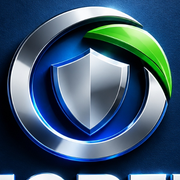
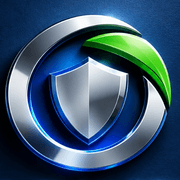
PWA : installation proposée de façon fiable sur mobile
- Invite native Android captée dès le <head>, avant React : beforeinstallprompt
  arrivait souvent avant l'hydratation et le bouton « Installer » retombait sur
  le guide manuel.
- Manifeste : id, lang, icônes « any » et « maskable » distinctes (l'icône 192
  maskable seule était rognée), manifestes périmés de public/ supprimés.
- Icônes régénérées depuis le logo officiel (emblème sans texte tronqué,
  maskable dans la zone de sécurité), 10× plus légères :
  scripts/generate-pwa-icons.js.
- Service worker v3 : pré-cache léger (plus de logo de 1,6 Mo) et vraie page
  hors ligne avec numéros d'urgence au lieu de la page d'accueil commerciale.

diff --git a/scripts/generate-pwa-icons.js b/scripts/generate-pwa-icons.js
@@ -1,0 +1,64 @@
+/**
+ * Génère les icônes de l'application installable (PWA) à partir du logo officiel.
+ *
+ * - icon-192 / icon-512 (purpose "any") : emblème recadré plein cadre.
+ * - icon-maskable-192 / 512 : emblème réduit dans la zone de sécurité (80 % central) sur le fond
+ *   bleu du logo, pour qu'Android puisse le découper en cercle ou en goutte sans le rogner.
+ * - apple-touch-icon (180) : iOS arrondit lui-même les angles.
+ *
+ * Usage : node scripts/generate-pwa-icons.js
+ */
+const path = require('path');
+const sharp = require('sharp');
+
+const publicDir = path.resolve(__dirname, '..', 'public');
+const source = path.join(publicDir, 'horeb-secure-logo.png'); // 1024x1024
+
+// Emblème (anneau + bouclier + feuille) dans le logo 1024 px
+// Le texte « HOREB » commence vers y = 588 : le cadre s'arrête au-dessus.
+const EMBLEM = { left: 268, top: 82, width: 496, height: 496 };
+
+/** Masque circulaire à bord progressif : fond l'emblème dans le fond sans arête visible. */
+function softCircleMask(size) {
+  const svg = `<svg xmlns="http://www.w3.org/2000/svg" width="${size}" height="${size}">
+    <defs><radialGradient id="g" cx="50%" cy="50%" r="50%">
+      <stop offset="78%" stop-color="#fff" stop-opacity="1"/>
+      <stop offset="100%" stop-color="#fff" stop-opacity="0"/>
+    </radialGradient></defs>
+    <rect width="100%" height="100%" fill="url(#g)"/></svg>`;
+  return Buffer.from(svg);
+}
+
+async function main() {
+  const emblem = await sharp(source).extract(EMBLEM).toBuffer();
+  const png = (img) => img.png({ compressionLevel: 9, palette: true, quality: 92, effort: 10 });
+
+  for (const size of [192, 512]) {
+    await png(sharp(emblem).resize(size, size)).toFile(path.join(publicDir, `icon-${size}.png`));
+
+    // Maskable : fond = emblème agrandi et flouté (même texture bleue) ; l'emblème net occupe 78 %
+    // du côté, détouré en cercle progressif, donc entièrement dans la zone de sécurité.
+    const inner = Math.round(size * 0.78);
+    const pad = Math.round((size - inner) / 2);
+    const background = await sharp(emblem).resize(size, size).blur(size / 12).modulate({ brightness: 0.7 }).toBuffer();
+    const sharpEmblem = await sharp(emblem)
+      .resize(inner, inner)
+      .ensureAlpha()
+      .composite([{ input: softCircleMask(inner), blend: 'dest-in' }])
+      .png()
+      .toBuffer();
+    await png(sharp(background).composite([{ input: sharpEmblem, left: pad, top: pad }])).toFile(
+      path.join(publicDir, `icon-maskable-${size}.png`)
+    );
+  }
+
+  await png(sharp(emblem).resize(180, 180)).toFile(path.join(publicDir, 'apple-touch-icon.png'));
+  await png(sharp(emblem).resize(64, 64)).toFile(path.join(publicDir, 'favicon.png'));
+
+  console.log('Icônes PWA générées dans public/');
+}
+
+main().catch((err) => {
+  console.error(err);
+  process.exit(1);
+});

diff --git a/src/app/manifest.ts b/src/app/manifest.ts
@@ -1,35 +1,32 @@
 import type { MetadataRoute } from 'next';
 
+/**
+ * Manifeste de l'application installable (PWA), servi sur /manifest.webmanifest.
+ * Icônes : générées par scripts/generate-pwa-icons.js. Une icône « any » pleine et une « maskable »
+ * distincte par taille : une icône à la fois any et maskable est rognée sur Android.
+ */
 export default function manifest(): MetadataRoute.Manifest {
   return {
+    id: '/',
     name: 'HOREB SECURE — Sécurité Opérationnelle & Intervention',
     short_name: 'HOREB SECURE',
     description: 'HOREB SECURE — Protéger Aujourd’hui, Demain | Plateforme de Sécurité de Proximité',
+    lang: 'fr',
+    dir: 'ltr',
     start_url: '/login',
     scope: '/',
     display: 'standalone',
+    display_override: ['standalone', 'minimal-ui'],
     orientation: 'portrait',
     background_color: '#020617',
     theme_color: '#020617',
     categories: ['security', 'business', 'utilities'],
+    prefer_related_applications: false,
     icons: [
-      {
-        src: '/favicon.png',
-        sizes: '32x32',
-        type: 'image/png',
-      },
-      {
-        src: '/icon-192.png',
-        sizes: '192x192',
-        type: 'image/png',
-        purpose: 'maskable',
-      },
-      {
-        src: '/icon-512.png',
-        sizes: '512x512',
-        type: 'image/png',
-        purpose: 'any',
-      },
+      { src: '/icon-192.png', sizes: '192x192', type: 'image/png', purpose: 'any' },
+      { src: '/icon-512.png', sizes: '512x512', type: 'image/png', purpose: 'any' },
+      { src: '/icon-maskable-192.png', sizes: '192x192', type: 'image/png', purpose: 'maskable' },
+      { src: '/icon-maskable-512.png', sizes: '512x512', type: 'image/png', purpose: 'maskable' },
     ],
   };
 }

diff --git a/public/offline.html b/public/offline.html
@@ -1,0 +1,29 @@
+<!doctype html>
+<html lang="fr">
+<head>
+  <meta charset="utf-8">
+  <meta name="viewport" content="width=device-width, initial-scale=1">
+  <meta name="theme-color" content="#020617">
+  <title>HOREB SECURE — Hors ligne</title>
+  <style>
+    html, body { margin: 0; height: 100%; background: #020617; color: #e2e8f0; font-family: system-ui, -apple-system, "Segoe UI", Roboto, sans-serif; }
+    main { min-height: 100%; display: flex; flex-direction: column; align-items: center; justify-content: center; text-align: center; padding: 24px; box-sizing: border-box; gap: 16px; }
+    img { width: 96px; height: 96px; border-radius: 24px; }
+    h1 { font-size: 20px; margin: 0; }
+    p { font-size: 14px; color: #94a3b8; max-width: 320px; margin: 0; line-height: 1.5; }
+    .urgence { font-size: 13px; color: #fca5a5; }
+    a { color: #fca5a5; font-weight: 700; }
+    button { margin-top: 8px; padding: 12px 20px; border: 0; border-radius: 12px; background: #0891b2; color: #fff; font-weight: 700; font-size: 14px; }
+  </style>
+</head>
+<body>
+  <main>
+    <img src="/icon-192.png" alt="">
+    <h1>Pas de connexion Internet</h1>
+    <p>HOREB SECURE a besoin du réseau pour transmettre les alertes. La page se rechargera dès que la connexion reviendra.</p>
+    <p class="urgence">En cas d’urgence : Police <a href="tel:170">170</a> · Pompiers <a href="tel:180">180</a></p>
+    <button type="button" onclick="location.reload()">Réessayer</button>
+  </main>
+  <script>window.addEventListener('online', function () { location.reload(); });</script>
+</body>
+</html>

diff --git a/public/sw.js b/public/sw.js
@@ -3,18 +3,18 @@
  * Installation résiliente, Cache-first pour assets statiques, Network-first pour pages, exclusion stricte API
  */
 
-const CACHE_NAME = 'horeb-secure-cache-v2.9.0';
+const CACHE_NAME = 'horeb-secure-cache-v3.0.0';
 
+// Pré-cache léger : page hors ligne et icônes (l'ancien pré-cache tirait un logo de 1,6 Mo à
+// l'installation, coûteux sur forfait mobile).
+const OFFLINE_URL = '/offline.html';
 const STATIC_ASSETS = [
-  '/',
+  OFFLINE_URL,
   '/login',
   '/manifest.webmanifest',
-  '/manifest.json',
   '/favicon.png',
   '/icon-192.png',
   '/icon-512.png',
-  '/logo-shield.png',
-  '/horeb-secure-logo.png',
 ];
 
 self.addEventListener('install', (event) => {
@@ -81,10 +81,10 @@ self.addEventListener('fetch', (event) => {
   if (event.request.mode === 'navigate') {
     event.respondWith(
       fetch(event.request).catch(async () => {
+        // Hors ligne : page déjà en cache si elle existe, sinon page « Pas de connexion »
+        // (plutôt que la page d'accueil commerciale, qui laissait croire à une déconnexion).
         const cached = await caches.match(event.request);
-        if (cached) return cached;
-        const indexCached = await caches.match('/');
-        return indexCached || caches.match('/login');
+        return cached || (await caches.match(OFFLINE_URL)) || Response.error();
       })
     );
     return;

diff --git a/src/app/layout.tsx b/src/app/layout.tsx
@@ -28,7 +28,7 @@ export const metadata: Metadata = {
   },
   icons: {
     icon: [
-      { url: '/favicon.png', sizes: '32x32', type: 'image/png' },
+      { url: '/favicon.png', sizes: '64x64', type: 'image/png' },
       { url: '/icon-192.png', sizes: '192x192', type: 'image/png' },
       { url: '/icon-512.png', sizes: '512x512', type: 'image/png' },
     ],
@@ -45,6 +45,17 @@ export default function RootLayout({
 }) {
   return (
     <html lang="fr" className="dark h-full antialiased">
+      <head>
+        {/* Capture de l'invite d'installation AVANT le chargement de React : Chrome Android émet
+            beforeinstallprompt très tôt ; capté seulement après l'hydratation, il était souvent perdu
+            et le bouton « Installer » retombait sur le guide manuel. */}
+        <script
+          dangerouslySetInnerHTML={{
+            __html:
+              "window.addEventListener('beforeinstallprompt',function(e){e.preventDefault();window._deferredPwaPrompt=e;window.dispatchEvent(new CustomEvent('securia:pwa_prompt_ready'));});",
+          }}
+        />
+      </head>
       <body className="min-h-full flex flex-col bg-slate-950 text-slate-100 selection:bg-red-500 selection:text-white">
         <PwaServiceWorkerRegister />
         <PwaInstallPrompt />
